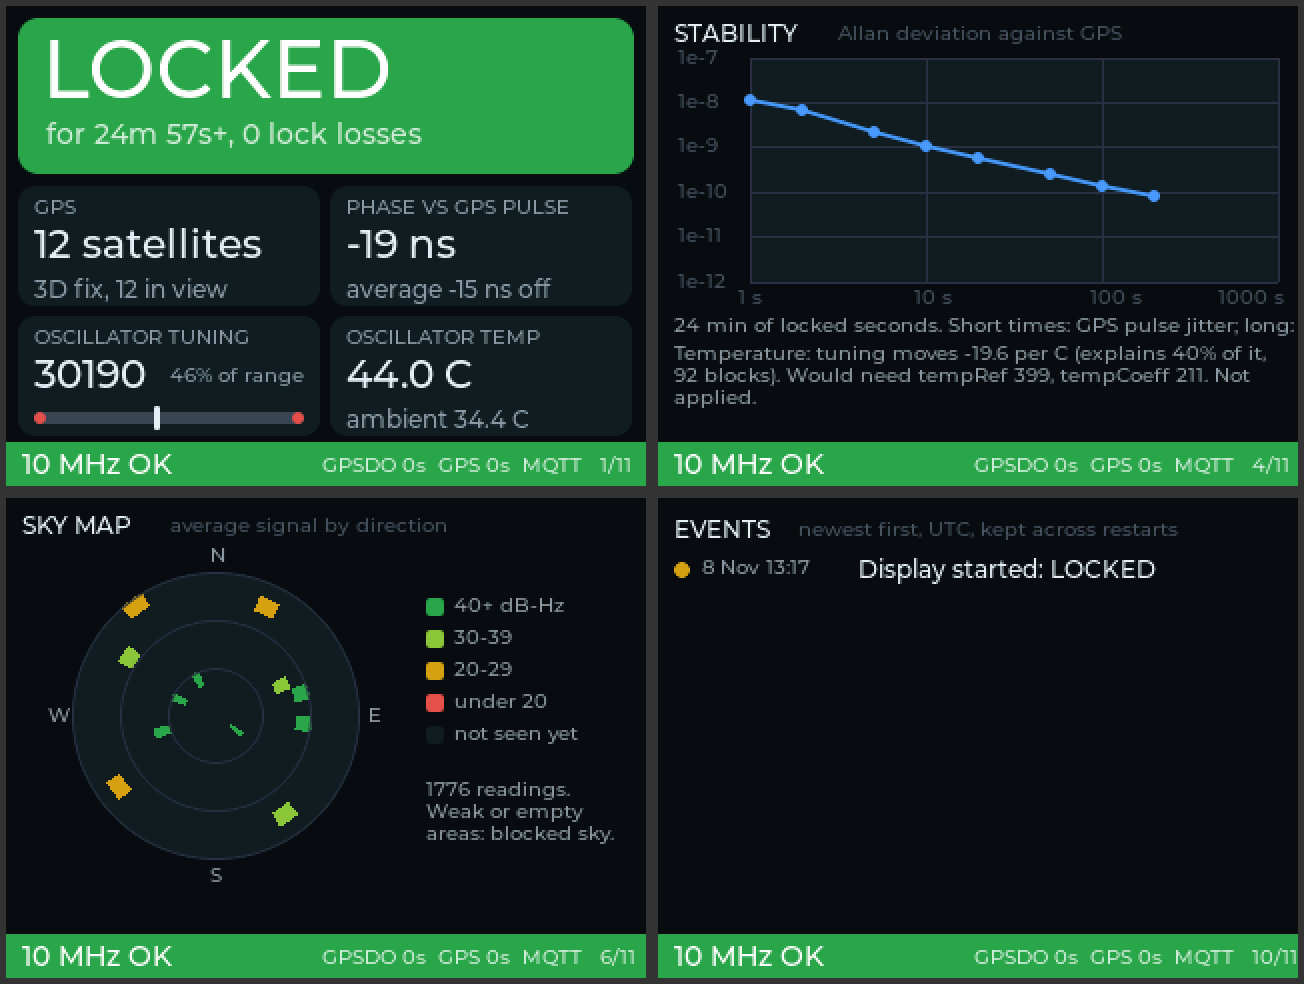
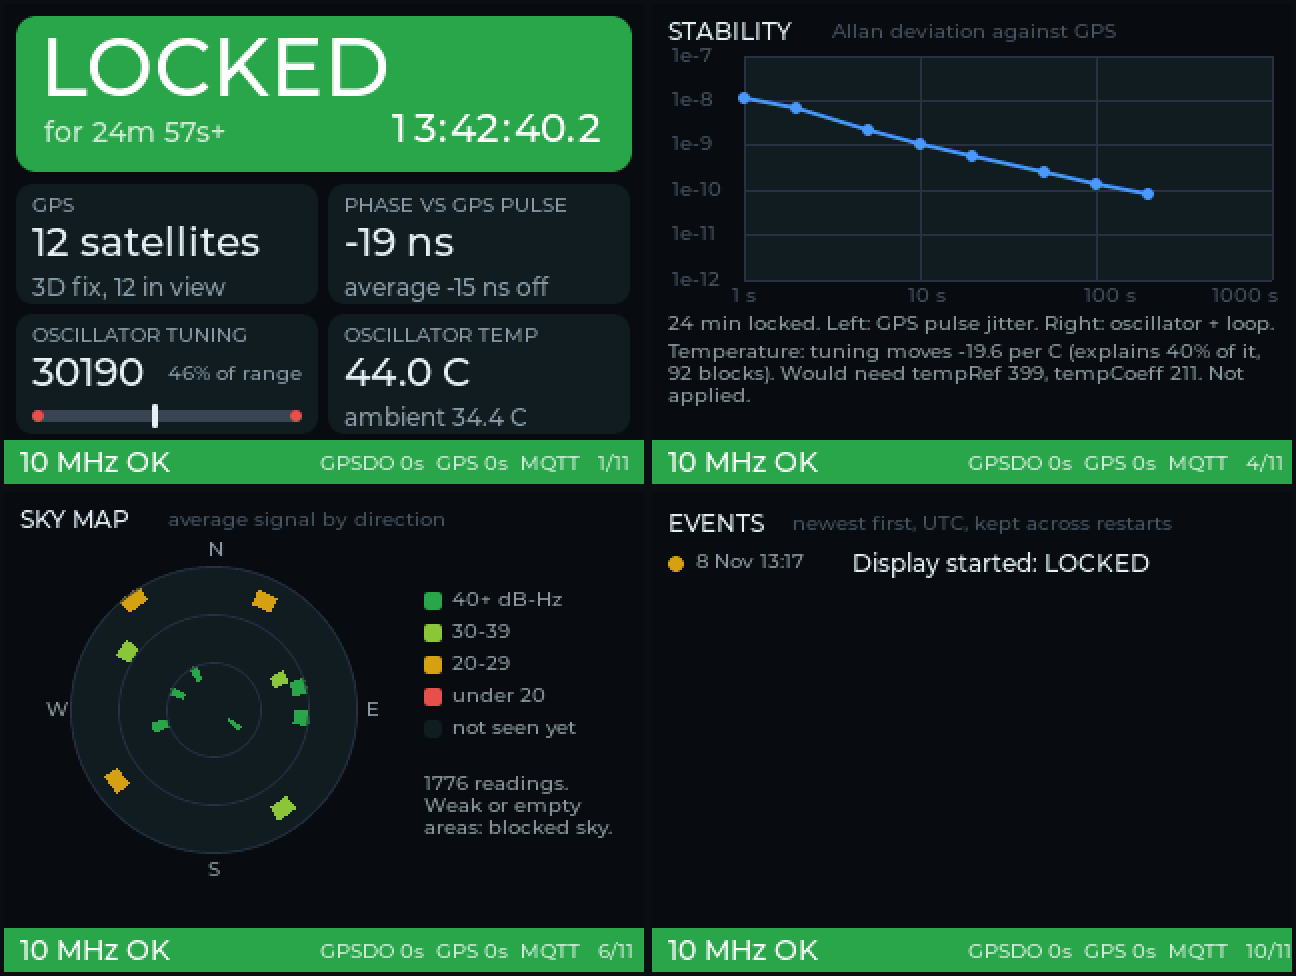
README: current state (PPS wired, no mDNS, interleaved NTP, new APIs and sensors) (#12)

diff --git a/README.md b/README.md
@@ -6,7 +6,7 @@ It listens to two serial lines inside the GPSDO, the Arduino Nano's once-a-secon
 
 ![Screens](docs/screens/overview.png)
 
-*Status: running on a real CYD (two-USB board, ILI9341 panel) with the GPSDO report relayed over USB; the taps are not wired yet.*
+*Status: in daily use on a real CYD (two-USB board, ILI9341 panel), wired to the GPSDO's taps and 1PPS, on Wi-Fi.*
 
 ## Why "reference OK" and not just "locked"
 
@@ -16,7 +16,7 @@ The GPSDO's own "Locked" only means its loop is tracking the GPS pulse. When the
 
 Tap anywhere for the next screen.
 
-1. **Status.** A big coloured banner with the state, then GPS satellites and fix, phase against the GPS pulse, oscillator tuning (with its usable range and the red end zones) and oscillator temperature. During start-up and while locking, a bar shows progress.
+1. **Status.** A big coloured banner with the state and UTC to 0.1 s, then GPS satellites and fix, phase against the GPS pulse, oscillator tuning (with its usable range and the red end zones) and oscillator temperature. During start-up and while locking, a bar shows progress.
 2. **Time and position.** UTC to a tenth of a second, the date, latitude and longitude, altitude and the 8-character Maidenhead locator. The position is only shown, never published.
 3. **10 MHz accuracy.** The average frequency error over 1, 5 and 30 minutes in parts per billion, from the change in phase against the GPS pulse, and what the 30-minute figure means in hertz on 3.5 to 144 MHz.
 4. **Stability.** The Allan deviation of the 10 MHz against GPS from 1 s to about 20 minutes, from up to an hour of continuous locked seconds, on a log-log plot. Short averaging times mostly show the GPS pulse's own jitter; longer ones show the oscillator and the loop. Below it, how the tuning has followed the oven temperature over the GPSDO's 18-day history, and the `tempRef`/`tempCoeff` that would compensate (shown only, never sent).
@@ -45,7 +45,7 @@ After moving the antenna, type `forget position` on the console so it relearns.
 
 | Banner | Colour | Meaning |
 |---|---|---|
-| LOCKED | green | GPSDO locked. The sub-line says for how long and how many lock losses since the display started. |
+| LOCKED | green | GPSDO locked. The sub-line says for how long and how many unlocks since the display started. |
 | GPS LOST | red | GPSDO says locked, but the GPS has no fix, too few satellites, or has gone quiet. Don't trust the reference. |
 | UNLOCKED | amber | GPSDO not locked yet. Shows how far the TIC is from target and the soonest it could lock (5 x the time constant of good seconds). |
 | NO PPS | red | No pulse from the GPS; the GPSDO is holding its last setting. |
@@ -75,19 +75,21 @@ With our modified Nano firmware (`nano/`) the state also carries `lock_counter`,
 
 `reference_ok` is the one field to act on. `alarms` can hold `gpsdo_silent`, `no_pps`, `no_10mhz`, `unlocked`, `dac_near_limit`, `gps_silent`, `gps_no_fix`, `gps_few_sats` and `reference_suspect`.
 
-Home Assistant picks up a "GPSDO" device with Reference OK, Locked, State, TIC, TIC error, DAC, both temperatures, time locked, lock losses and satellites used.
+The state also carries `pps_input`: true while the 1PPS wired to IO27 is giving edges.
+
+Home Assistant picks up a "GPSDO" device with Reference OK, Locked, GPS interference, PPS input, State, phase, phase error, DAC, both temperatures, time locked, lock progress, lock losses, missed pulses, satellites used, 30-minute frequency error, antenna status and restart counts.
 
 ## Web page and names
 
-Once on Wi-Fi the display serves a read-only page at **http://gpsdo.local/** (mDNS; it also advertises its web page and NTP server). It also asks for the name `gpsdo` when it gets its address, so on networks whose router registers DHCP names it is reachable as plain `gpsdo` too (here `gpsdo.lan`). The page shows the verdict, the full event log, trends, the 18-day history, satellites and frequency error; the same data is JSON at `/api/state`, `/api/events`, `/api/trends`, `/api/history`, `/api/sats` and `/api/accuracy`.
+Once on Wi-Fi the display serves a read-only web page. It asks for the name `gpsdo` when it gets its address, so on networks whose router registers DHCP names it is reachable as `gpsdo` (here **http://gpsdo.lan/**). There is no mDNS: the ESP32's mDNS responder crashed the display on a packet from another device. The page shows the verdict, the full event log, trends, the 18-day history, satellites and frequency error; the same data is JSON at `/api/state`, `/api/events`, `/api/trends`, `/api/history`, `/api/sats`, `/api/accuracy`, `/api/time`, `/api/stability`, `/api/skymap`, `/api/recordings`, `/api/network` and `/api/pps`. After a crash, `/api/crash` gives the crashing task, program counter and backtrace (decode with `xtensa-esp32-elf-addr2line` against the `firmware.elf` of the build that crashed).
 
 ## NTP server
 
 Once on Wi-Fi, the CYD answers NTP on UDP port 123 as a stratum 1 server with reference "GPS". The second comes from the GPS messages and the start of each second from the GPSDO's 1PPS output, wired to IO27 and timestamped in its interrupt (see /api/pps). Without the PPS the CYD falls back to the Nano's report, which starts 3.15 ms after each PPS edge, timestamping its first byte in the UART's receive interrupt. Requests are timestamped in their own task as they arrive, and Wi-Fi power saving is off, because sleeping between beacons delays requests but not replies, which would show up as an offset.
 
-Measured on 2026-11-08 against a clock synced to 0.03 ms: offset within 0.3 ms, round trip about 9 ms over Wi-Fi. When the GPS has no fix or the second marks stop, it replies with stratum 16 and the "not synchronised" flag, so clients ignore it.
+It supports the interleaved mode (chrony `server gpsdo.lan iburst xleave`): a reply carries the time the previous reply actually left, taken after `sendto` returns, instead of an estimate made before sending. Measured 2026-11-16 from a wired LAN host, this put clients about 1.4 ms closer to true time than the basic mode (median offset -0.6 ms against -2.1 ms); the scatter is Wi-Fi's and is unchanged. When the GPS has no fix or the second marks stop, it replies with stratum 16 and the "not synchronised" flag, so clients ignore it.
 
-Optional: wiring the GPSDO's buffered 1PPS output to IO27 (on CN1, through a 10k/20k divider for 5 V logic) lets the CYD time the edge directly. The firmware finds which edge marks the second by itself, prefers it over the Nano's report, and prints the measured PPS-to-report delay on the console every minute.
+The 1PPS comes from the GPSDO's front-panel BNC to IO27 (on CN1, through a 10k/20k divider for 5 V logic). On our unit that pulse is inverted (it falls on the second). The firmware finds which edge marks the second by itself, prefers it over the Nano's report, and reports the edge timing and the measured PPS-to-report delay at `/api/pps`; the event log notes the PPS input being found or lost.
 
 ## Build and flash
 
